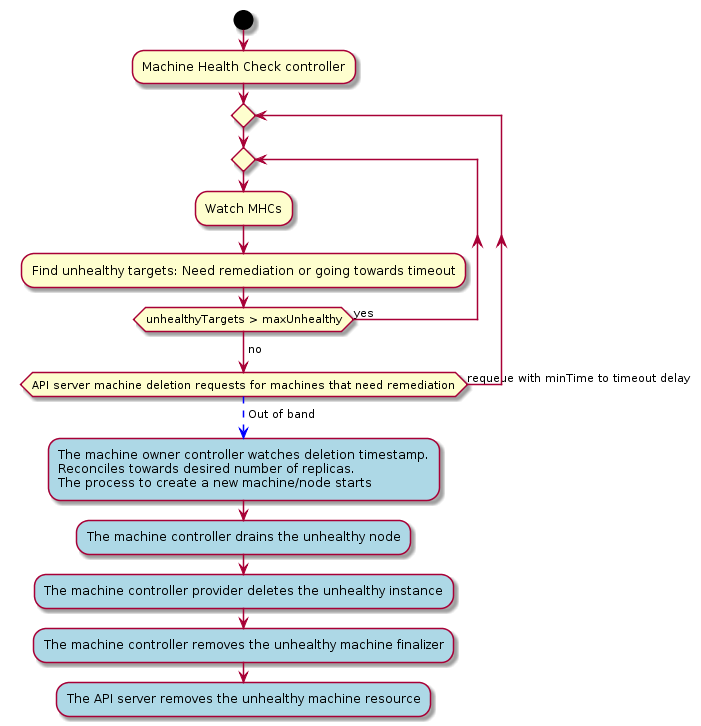
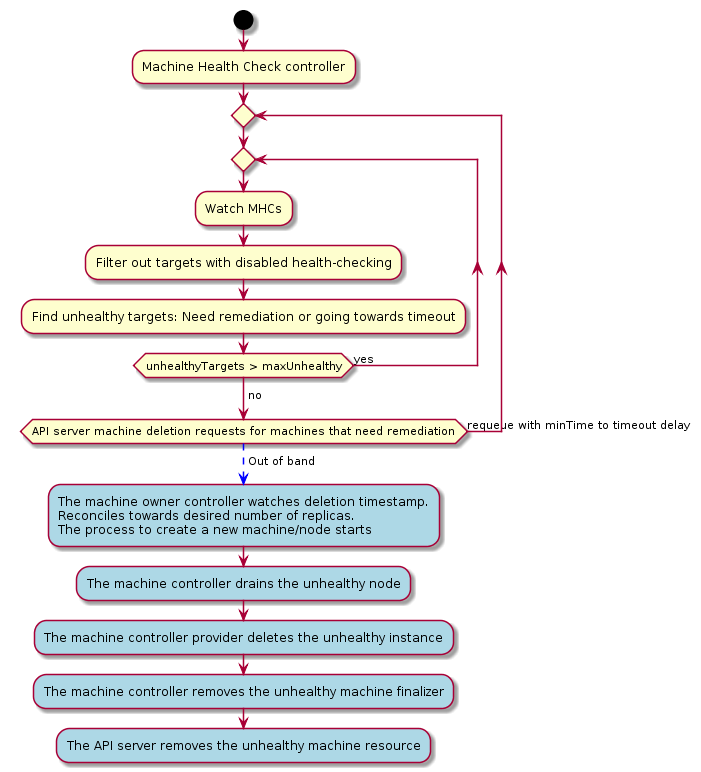
machine health-checking: add disable annotation

Changed region(s): [[0.03, 0.0303, 0.9886, 1.0]]

diff --git a/enhancements/machine-api/machine-health-checking.md b/enhancements/machine-api/machine-health-checking.md
@@ -68,6 +68,8 @@ Reduce administrative overhead to run a cluster and ability to respond to failur
 
 - As a cluster admin I want to define different unhealthy criteria for pools of machines targeted for different workloads.
 
+- As a cluster admin I need to temporarily disable health-checking for a machine because of maintenace (e.g. required reboot of bare-metal host after OS update).
+
 The machine health checker (MHC) does a best effort to keep nodes healthy in the cluster.
 
 It provides a short-circuit mechanism and limits remediation when `maxUnhealthy` threshold is reached for a targeted pool. This is similar to what the node life cycle controller does for reducing the eviction rate as nodes goes unhealthy in a given zone. E.g a large number of nodes in a single zone are down because it's most likely a networking issue.
@@ -144,6 +146,7 @@ type target struct {
 }
 ```
 
+- Filter out targets with set `healthchecking.openshift.io/disabled: true` on the Machine object.
 - Calculate the number of unhealthy targets.
 - Compare current number against `maxUnhealthy` threshold and temporary short circuits remediation if the threshold is met.
 - Trigger remediation for unhealthy targets i.e request machines for deletion.
